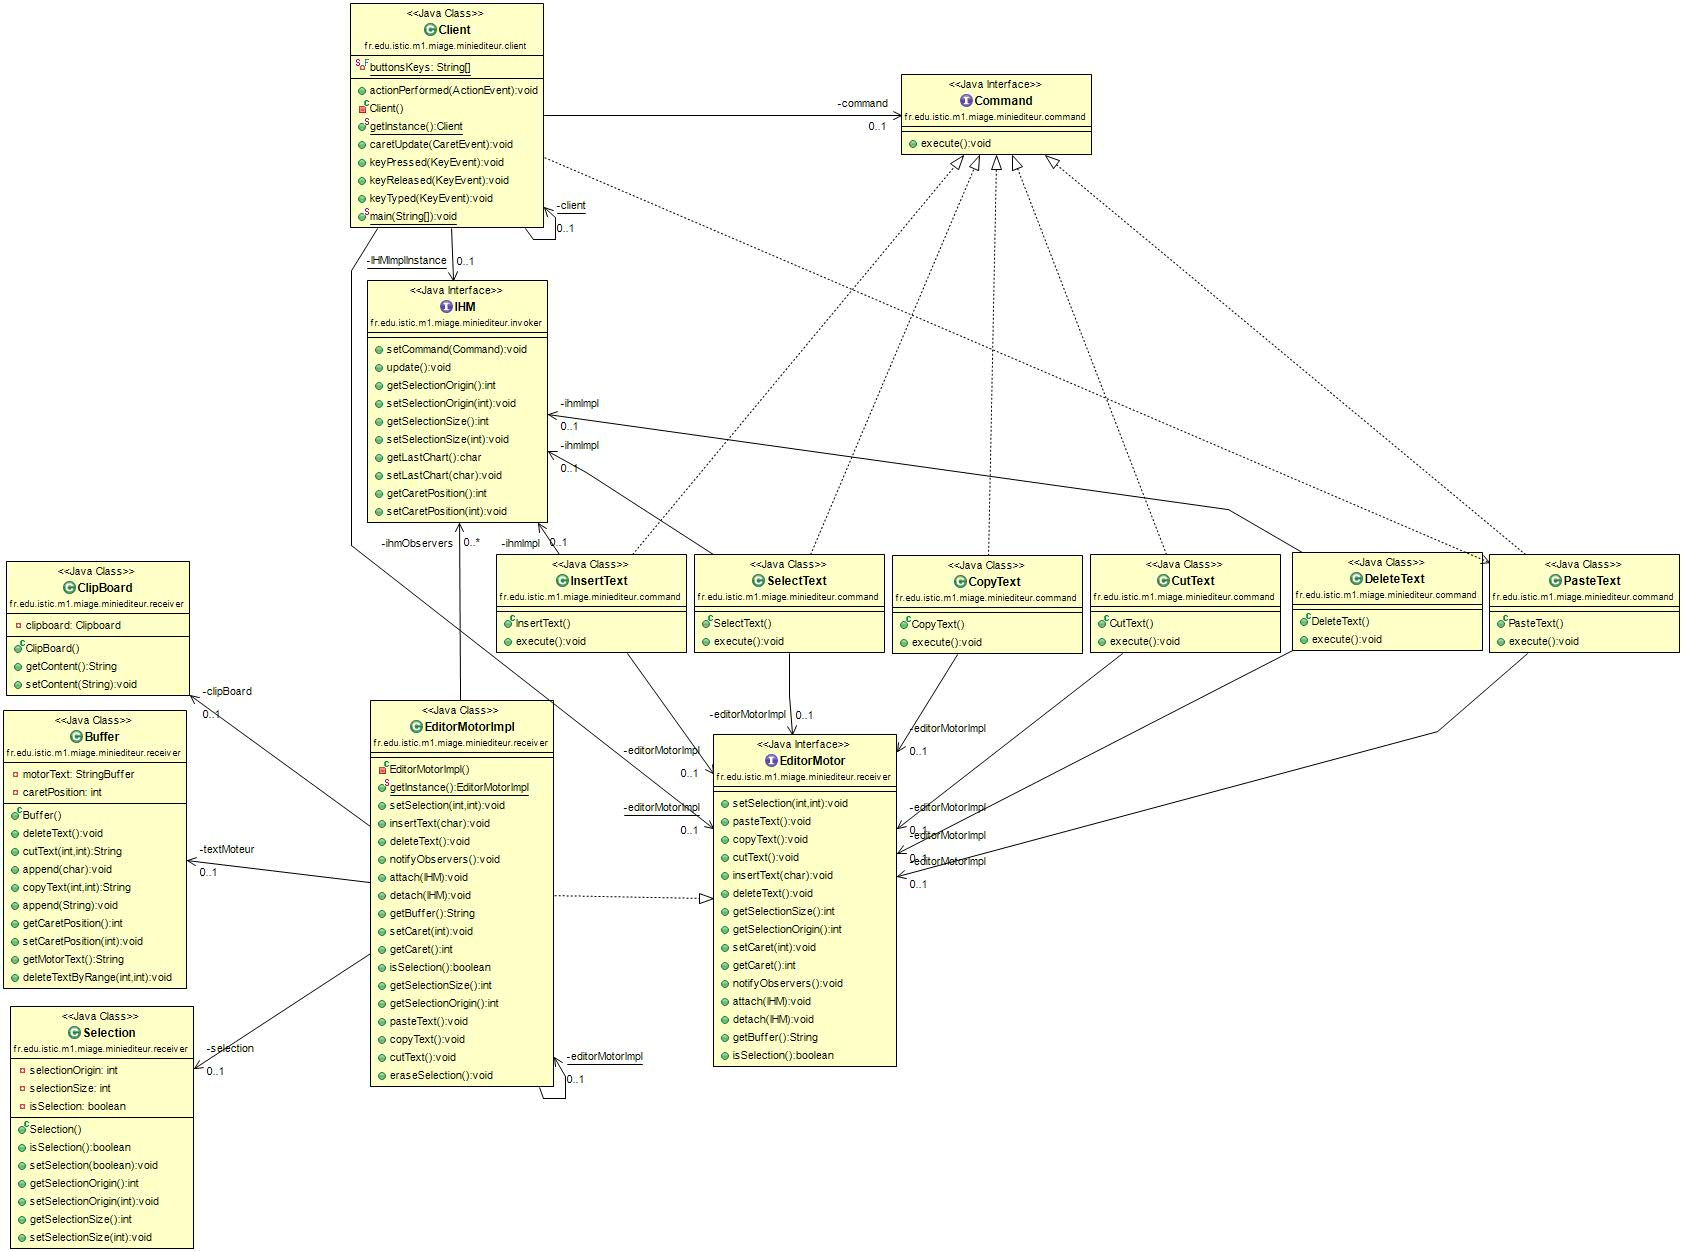
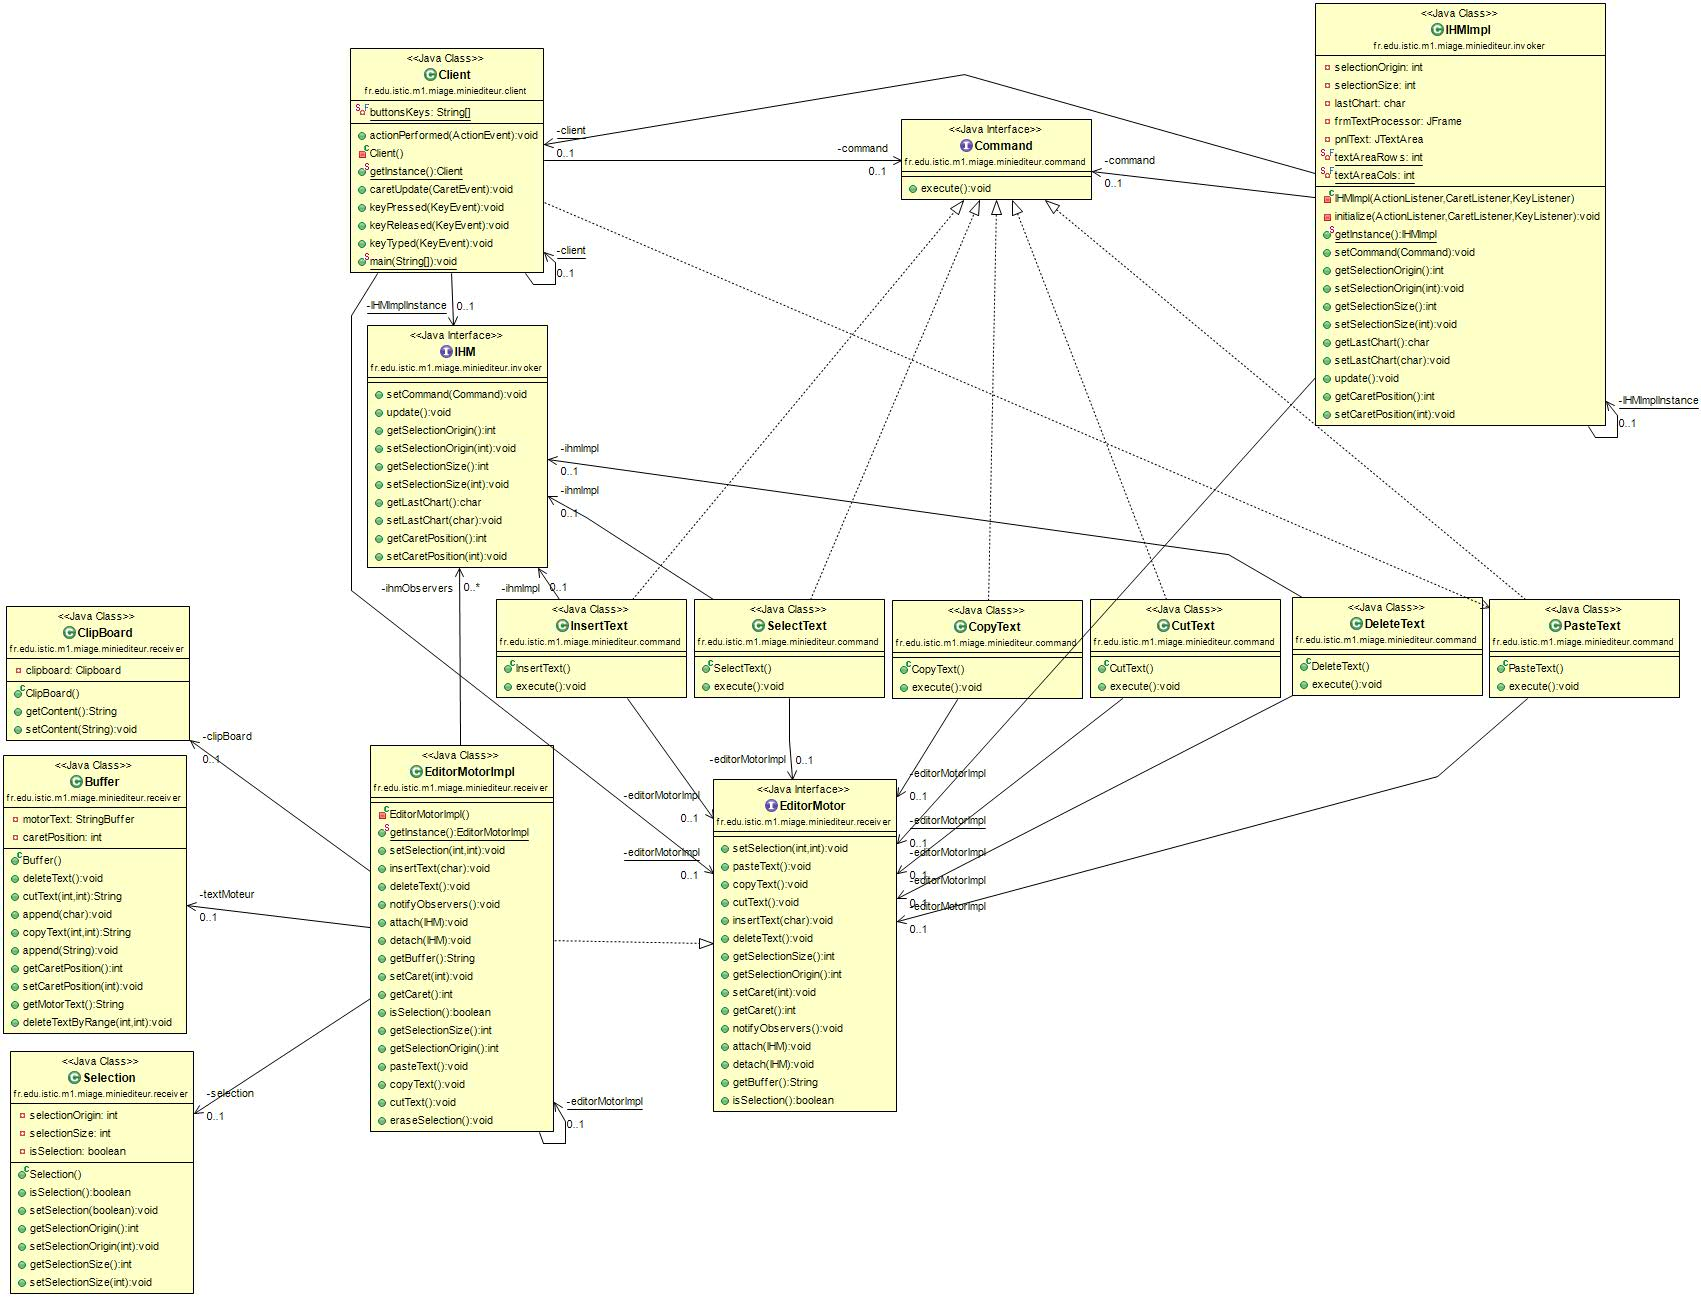
MiniediteurV1
- Class and sequence Diagrams

diff --git a/MiniEditeurV1/src/fr/edu/istic/m1/miage/miniediteur/invoker/IHM.java b/MiniEditeurV1/src/fr/edu/istic/m1/miage/miniediteur/invoker/IHM.java
@@ -37,11 +37,21 @@ public interface IHM {
 	 * @param selectionOrigin
 	 *            - the initial point
 	 */
-
 	public void setSelectionOrigin(int selectionOrigin);
 
+	/**
+	 * This method gets the size of the selection
+	 * 
+	 * @return - the value with the size
+	 */
 	public int getSelectionSize();
 
+	/**
+	 * This method set the selection size on the IHM
+	 * 
+	 * @param selectionSize
+	 *            - the integer value for the size
+	 */
 	public void setSelectionSize(int selectionSize);
 
 	/**
@@ -58,6 +68,7 @@ public interface IHM {
 	 *            - the last char typed
 	 */
 	public void setLastChart(char lastChart);
+
 	/**
 	 * returns the caret position on the IHM
 	 * 
